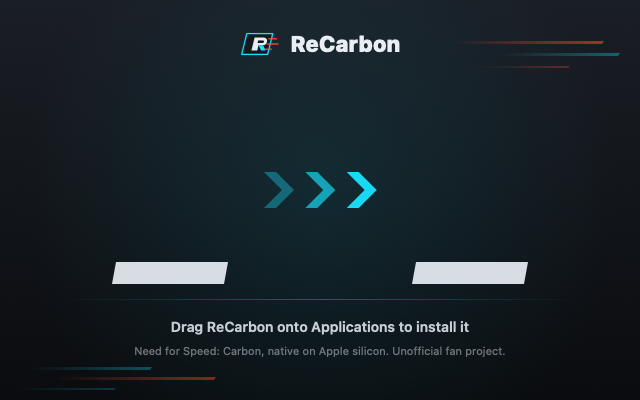
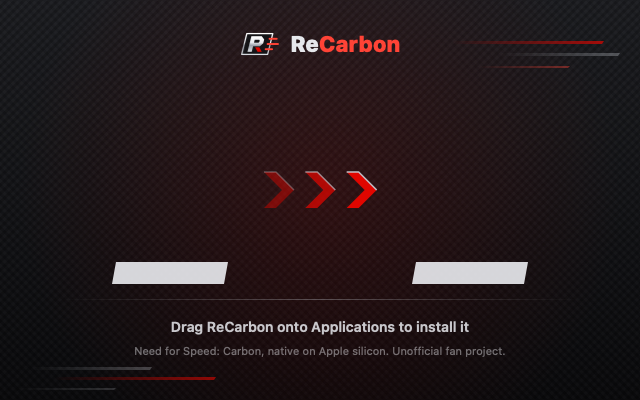
feat(dmg): the Finder background in the new palette: red chevrons with a silver highlight, red and silver streaks, carbon twill, same layout

diff --git a/scripts/macos/make_dmg_background.swift b/scripts/macos/make_dmg_background.swift
@@ -4,11 +4,12 @@
 // make_dmg_background.swift [output dir]: the background of the dmg's Finder window,
 // scripts/macos/DmgBackground.png (640 x 400) and DmgBackground@2x.png (1280 x 800, for Retina
 // screens), which make_app.py joins into one TIFF. Drawn from the project's own mark
-// (website/public/favicon.svg) and its colours (the dark #15181D, the cyan #19E3FF, the white
-// #E9EEF5 and the speed lines' #FF4D2E), never the game's or SpeedBreaker's art: a dark
-// gradient with a few slanted speed streaks, the mark and "ReCarbon" at the top, an arrow from
-// the app's icon to the Applications shortcut, a light plate under each icon's name, and "Drag
-// ReCarbon onto Applications" below them.
+// (website/public/favicon.svg) and the website's colours (website/src/styles/tokens.css: asphalt
+// #0A0A0C, graphite #1D1E22, racing red #E10600 and #FF4336, silver #C2C6CD, text #E6E8EC), never
+// the game's or SpeedBreaker's art: a dark gradient with a faint carbon-fibre twill, a red glow
+// and a few slanted red and silver speed streaks, the mark and "ReCarbon" ("Re" silver, "Carbon"
+// red) at the top, a red arrow with a silver highlight from the app's icon to the Applications
+// shortcut, a light plate under each icon's name, and "Drag ReCarbon onto Applications" below them.
 // The window's size and the two icons' centres are make_app.py's DMG_WINDOW and DMG_ICONS
 // (tests/dmg_layout_test.py checks the images' sizes against them).
 // Needs only macOS (AppKit draws the SVG, macOS 14+).
@@ -60,48 +61,64 @@ func text(_ string: String, size: CGFloat, weight: NSFont.Weight, colour: NSColo
 }
 
 func draw() {
-    // The ground: dark, lighter towards the top, with a cyan glow behind the icons' row.
+    // The ground: asphalt, lighter towards the top, a faint twill (tokens.css's --rn-weave), and a
+    // red glow behind the icons' row.
     let full = NSRect(x: 0, y: 0, width: width, height: height)
-    NSGradient(starting: color(0x0A0C0F), ending: color(0x1A1E25))!.draw(in: full, angle: 90)
+    NSGradient(starting: color(0x0A0A0C), ending: color(0x1D1E22))!.draw(in: full, angle: 90)
+    let cg = NSGraphicsContext.current!.cgContext, period: CGFloat = 6
+    for (angle, shade) in [(CGFloat.pi / 4, color(0xFFFFFF, 0.02)), (-CGFloat.pi / 4, color(0x000000, 0.22))] {
+        cg.saveGState()
+        cg.translateBy(x: width / 2, y: height / 2)
+        cg.rotate(by: angle)
+        cg.setFillColor(shade.cgColor)
+        var x = -width
+        while x < width {
+            cg.fill(CGRect(x: x, y: -width, width: period / 2, height: 2 * width))
+            x += period
+        }
+        cg.restoreGState()
+    }
     let row = flip(NSPoint(x: width / 2, y: app.y))
-    NSGradient(starting: color(0x19E3FF, 0.10), ending: color(0x19E3FF, 0))!
+    NSGradient(starting: color(0xE10600, 0.14), ending: color(0xE10600, 0))!
         .draw(fromCenter: row, radius: 0, toCenter: row, radius: 300, options: [])
 
     // Speed streaks, slanted like the mark: top right and bottom left, faint.
     let streaks: [(NSRect, UInt32, CGFloat)] = [
-        (NSRect(x: 452, y: 356, width: 150, height: 3), 0xFF4D2E, 0.55),
-        (NSRect(x: 500, y: 344, width: 118, height: 3), 0x19E3FF, 0.35),
-        (NSRect(x: 478, y: 332, width: 90, height: 2), 0xFF4D2E, 0.30),
-        (NSRect(x: 30, y: 30, width: 120, height: 3), 0x19E3FF, 0.30),
-        (NSRect(x: 54, y: 20, width: 160, height: 3), 0xFF4D2E, 0.45),
-        (NSRect(x: 18, y: 10, width: 96, height: 2), 0x19E3FF, 0.20),
+        (NSRect(x: 452, y: 356, width: 150, height: 3), 0xE10600, 0.70),
+        (NSRect(x: 500, y: 344, width: 118, height: 3), 0xC2C6CD, 0.35),
+        (NSRect(x: 478, y: 332, width: 90, height: 2), 0xFF4336, 0.40),
+        (NSRect(x: 30, y: 30, width: 120, height: 3), 0xC2C6CD, 0.30),
+        (NSRect(x: 54, y: 20, width: 160, height: 3), 0xE10600, 0.60),
+        (NSRect(x: 18, y: 10, width: 96, height: 2), 0xC2C6CD, 0.20),
     ]
     for (rect, hex, alpha) in streaks {
         NSGradient(starting: color(hex, 0), ending: color(hex, alpha))!.draw(in: slanted(rect, lean: 2), angle: 0)
     }
 
-    // A thin cyan line under the icons' row: the track's edge.
+    // A thin silver line under the icons' row: the track's edge.
     let track = NSRect(x: 60, y: height - 300, width: width - 120, height: 1)
-    NSGradient(colors: [color(0x19E3FF, 0), color(0x19E3FF, 0.35), color(0x19E3FF, 0)])!.draw(in: track, angle: 0)
+    NSGradient(colors: [color(0xC2C6CD, 0), color(0xC2C6CD, 0.35), color(0xC2C6CD, 0)])!.draw(in: track, angle: 0)
 
     // A light plate under each icon's name: Finder writes the names in black over a picture,
     // whatever the appearance, so they need a light ground to be read on this dark one.
     for centre in [app, applications] {
         let plate = NSRect(x: centre.x - 58, y: height - labelCentre - 11, width: 112, height: 22)
-        color(0xE9EEF5, 0.92).setFill()
+        color(0xE6E8EC, 0.92).setFill()
         slanted(plate, lean: 4).fill()
     }
 
     // The mark and the name, at the top.
     let markHeight: CGFloat = 26, markWidth = markHeight * mark.size.width / mark.size.height
-    let name = NSAttributedString(string: "ReCarbon", attributes: [
-        .font: NSFont.systemFont(ofSize: 22, weight: .heavy), .foregroundColor: color(0xE9EEF5), .kern: 0.5])
+    let name = NSMutableAttributedString(string: "ReCarbon", attributes: [
+        .font: NSFont.systemFont(ofSize: 22, weight: .heavy), .foregroundColor: color(0xE6E8EC), .kern: 0.5])
+    name.addAttribute(.foregroundColor, value: color(0xFF4336), range: NSRange(location: 2, length: 6))
     let nameSize = name.size(), gap: CGFloat = 10
     let left = (width - markWidth - gap - nameSize.width) / 2, middle = height - 44
     mark.draw(in: NSRect(x: left, y: middle - markHeight / 2, width: markWidth, height: markHeight))
     name.draw(at: NSPoint(x: left + markWidth + gap, y: middle - nameSize.height / 2))
 
-    // The arrow: three slanted chevrons, brighter towards Applications, between the two icons.
+    // The arrow: three slanted red chevrons, brighter towards Applications, between the two icons,
+    // each with a silver highlight along its upper edge.
     let start = app.x + iconSize / 2 + 24, end = applications.x - iconSize / 2 - 24
     let y = height - app.y, step = (end - start) / 3
     for i in 0..<3 {
@@ -114,15 +131,23 @@ func draw() {
         chevron.line(to: NSPoint(x: x, y: y - 18))
         chevron.line(to: NSPoint(x: x + 18, y: y))
         chevron.close()
-        color(0x19E3FF, 0.35 + 0.30 * CGFloat(i)).setFill()
+        color(0xE10600, 0.45 + 0.275 * CGFloat(i)).setFill()
         chevron.fill()
+        let highlight = NSBezierPath()
+        highlight.move(to: NSPoint(x: x, y: y + 18))
+        highlight.line(to: NSPoint(x: x + 12, y: y + 18))
+        highlight.line(to: NSPoint(x: x + 30, y: y))
+        highlight.lineWidth = 1.5
+        highlight.lineJoinStyle = .round
+        color(0xC2C6CD, 0.35 + 0.30 * CGFloat(i)).setStroke()
+        highlight.stroke()
     }
 
     // What to do, below the icons' names.
     text("Drag ReCarbon onto Applications to install it", size: 14, weight: .semibold,
-         colour: color(0xE9EEF5, 0.85), centreX: width / 2, top: 318)
+         colour: color(0xE6E8EC, 0.85), centreX: width / 2, top: 318)
     text("Need for Speed: Carbon, native on Apple silicon. Unofficial fan project.", size: 11, weight: .regular,
-         colour: color(0xE9EEF5, 0.45), centreX: width / 2, top: 344)
+         colour: color(0xE6E8EC, 0.45), centreX: width / 2, top: 344)
 }
 
 for scale in [1, 2] {
